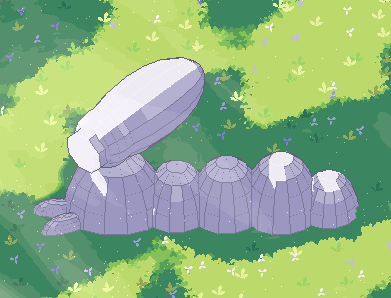
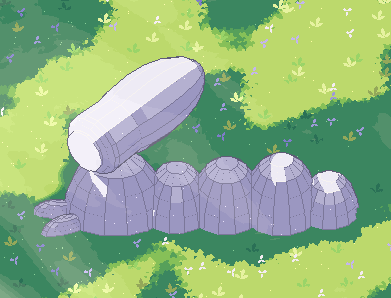
Cut the Buu tube flat instead of adding a rim piece
The front of the tube on the Buu head is now cut flat, like a sausage
cut with a knife: a full flat face that is the base of a dome pointing
back into the body, with nothing coming out of it. The body is nearly
full right behind the cut, as on the reference. The guide's section 6
explains the flat cut.

Claude-Session: https://claude.ai/code/session_01RTs7g9ZtRZkezttS3mRvFA

diff --git a/documentation/building/README.md b/documentation/building/README.md
@@ -44,7 +44,7 @@ Chichi house:
 
 Buu house:
 
-- Shapes: the head dome, the 4 segments, the 2 feet, and the tube on top. The front of the tube is only a flat round side.
+- Shapes: the head dome, the 4 segments, the 2 feet, and the tube on top. The front of the tube is cut flat, like a sausage cut with a knife: a full flat face, not hollow, with nothing coming out.
 - Textures later: the round door hole on the head (the "eye"), the hole in the front of the tube, and all the small round windows.
 
 This differs from `../style/rules.md`, which makes doors, windows, and posts real shapes and gives each door the role "door". For buildings, follow this guide.
@@ -190,10 +190,10 @@ All sizes are measured from the Chichi plan.
 | Type | Faces | Use it for | In Chichi | In Buu |
 | --- | --- | --- | --- | --- |
 | box | front, back, left, right, top, bottom | walls, bases, chimneys, entrance blocks, posts | 11 | 0 |
-| cylinder | side, top, bottom (8 flat sides) | round bases, pipes, round tops and flat round ends (laid on its side) | 3: `dome-ring`, `dome-pipe`, `arch-top` | 1: `tube-rim` |
+| cylinder | side, top, bottom (8 flat sides) | round bases, pipes, round tops (laid on its side) | 3: `dome-ring`, `dome-pipe`, `arch-top` | 0 |
 | wedge | front and back (the 2 slopes), left and right (the triangle ends), bottom | gable roofs | 2: `roof`, `wing-roof` | 0 |
 | pyramid | front, back, left, right, bottom | My reading: roofs with 4 slopes, pointed tops | 0 | 0 |
-| dome | side, bottom (14 sides, 5 bands) | round houses and round bodies. Width, depth, and height may differ | 1: `dome` | 11 |
+| dome | side, bottom (14 sides, 5 bands) | round houses and round bodies, and the flat cut of a round body. Width, depth, and height may differ | 1: `dome` | 12 |
 
 ### A wedge with its gable to the front
 
@@ -229,18 +229,20 @@ The Buu tube runs to the back right, 47° from x, and its back end rises 7°. A 
 
 2 domes with the same center and the same width, one pointing each way, make an egg. Each half can have its own length: a short half is blunt, a long half is pointed.
 
-### A flat round end
+### A flat cut
 
-A dome ends in a round point. To cut a round body flat, put a short cylinder (laid the same way) at the end, with its front face where the flat end should be. The tip of each dome must stay inside that cylinder. The Buu tube does this with `tube-rim`: its front face is the flat front of the tube, 1.0 wide. The hole in it will be a texture.
+A dome ends in a round point. To cut a round body flat, as if with a knife, do not add a piece that shows. Lay one more dome pointing back into the body, with its flat base where the cut should be. Its base is the cut: a full flat face, not hollow. The rest of that dome is hidden inside the body. The tip of each egg must stay just behind the cut.
+
+The Buu tube does this with `tube-cut`: its base is the flat front of the tube, 1.06 wide (0.62 of the middle, the outer edge of the opening on the reference). The opening will be a texture on it.
 
 ### A body fattest in the middle, with a flat front
 
-One egg alone, cut flat, leaves a long straight piece of the cylinder showing at the front. To make the front round out quickly, as on the Buu tube, use 2 eggs:
+One egg alone is thin near its tip, so its front would look like a bottle neck behind the cut. On the reference, the body is nearly full right behind the cut. To make that, use 2 eggs:
 
-- a main egg, fattest in the middle of the body. Its back half is the round back end. Its front tip reaches the flat front, inside the cylinder.
+- a main egg, fattest in the middle of the body. Its back half is the round back end. Its front tip stops just behind the cut.
 - a short front egg, a little thinner. Its blunt front half rounds the body down to the flat front. Its back tip stays inside the main egg.
 
-Check the outline along the body: it must rise from the flat front to the middle with no dip, then fall to the round back. The Buu tube (radius): 0.5 at the flat front, 0.69 at 0.5 m, 0.85 in the middle (2.1 m), then the round back ends at 3.9 m.
+Check the outline along the body: it must rise from the flat front to the middle with no dip, then fall to the round back. The Buu tube (radius): 0.53 at the cut, 0.78 at 0.4 m, 0.85 in the middle (2.1 m), then the round back ends at 3.9 m.
 
 ### Sitting on a curved part
 
@@ -273,7 +275,7 @@ Buu house: 1 slot, `white` (#eeebf5), on every shape.
 ### Which face gets which color
 
 - A shape is one color on all its faces: the color of its part. Walls are cream, chimneys white, bases grey.
-- The bottom gets that color too. Do not use `null`. A shape laid on its side shows its bottom: the flat front of the Buu tube is the `bottom` face of `tube-rim`. A `null` face shows the grey fallback color there.
+- The bottom gets that color too. Do not use `null`. A shape laid on its side shows its bottom: the flat cut of the Buu tube is the `bottom` face of `tube-cut`. A `null` face shows the grey fallback color there.
 - A roof wedge is the only shape with 2 colors: its slopes and bottom are `tile`, its triangle ends (`left`, `right`) are `wood`. This is the same for every roof.
 
 Why wood on every triangle end: the camera looks straight along -z and never turns. A roof with its ridge along x has its triangle ends looking left and right, so the camera never sees them. Only a turned roof, like the wing roof, shows a triangle end, and there the plan uses wood. So one rule gives the same picture.
@@ -295,7 +297,7 @@ The plan went from 25 to 17 shapes.
 
 ## 8. Limits
 
-- At most 30 shapes (`MAX_SHAPES` in `schema.ts`). Chichi uses 17: 11 boxes, 3 cylinders, 2 wedges, 1 dome. Buu uses 12: 11 domes and 1 cylinder.
+- At most 30 shapes (`MAX_SHAPES` in `schema.ts`). Chichi uses 17: 11 boxes, 3 cylinders, 2 wedges, 1 dome. Buu uses 12, all domes.
 - Only 5 shape types: box, cylinder, wedge, pyramid, dome.
 - No doors, windows, signs, holes, steps, or surface details as shapes. They will be textures.
 - No shape has `role: "door"` for now. The door will open and close as a texture.
